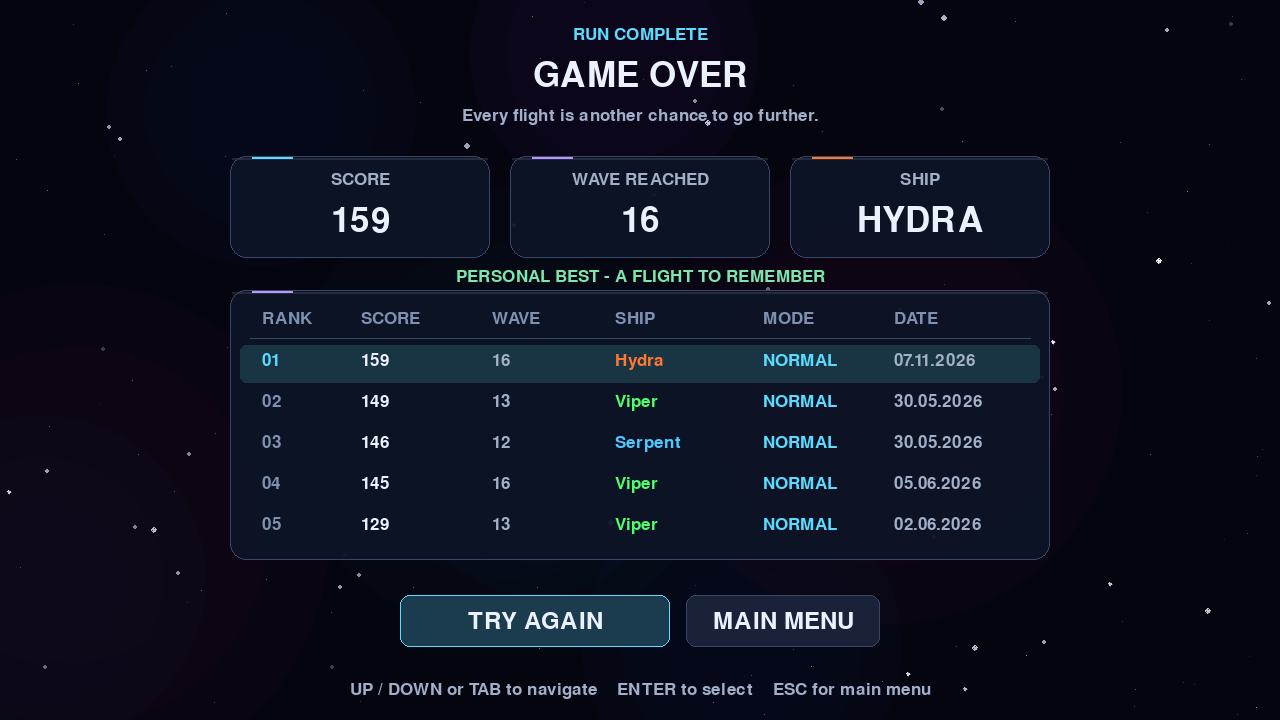
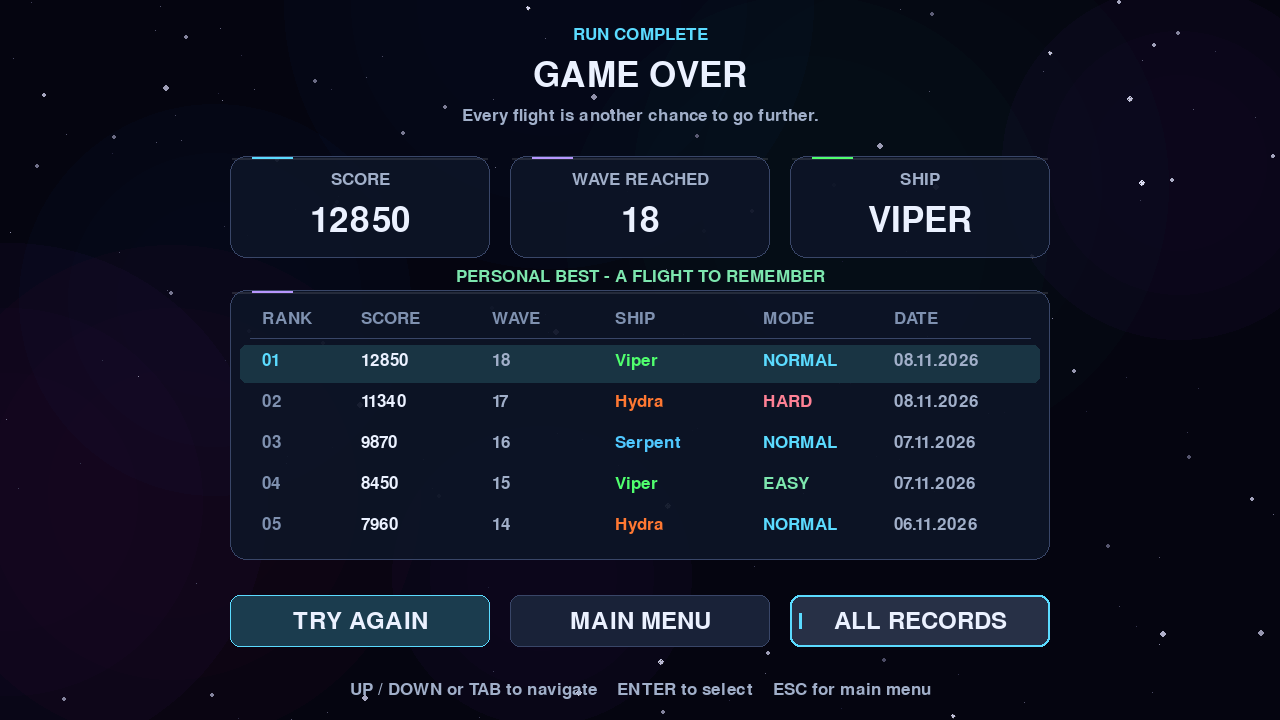
docs: refresh Serpentis 1.9.0 interface previews

diff --git a/README.md b/README.md
@@ -26,7 +26,7 @@ Or browse all releases → **[github.com/Curun1r/Serpentis/releases](https://git
 
 ## Screenshots
 
-Screenshots show Serpentis 1.9.0. Leaderboard examples use demonstration runs.
+Gameplay and interface previews. Leaderboard examples use demonstration runs.
 
 <table>
   <tr>
